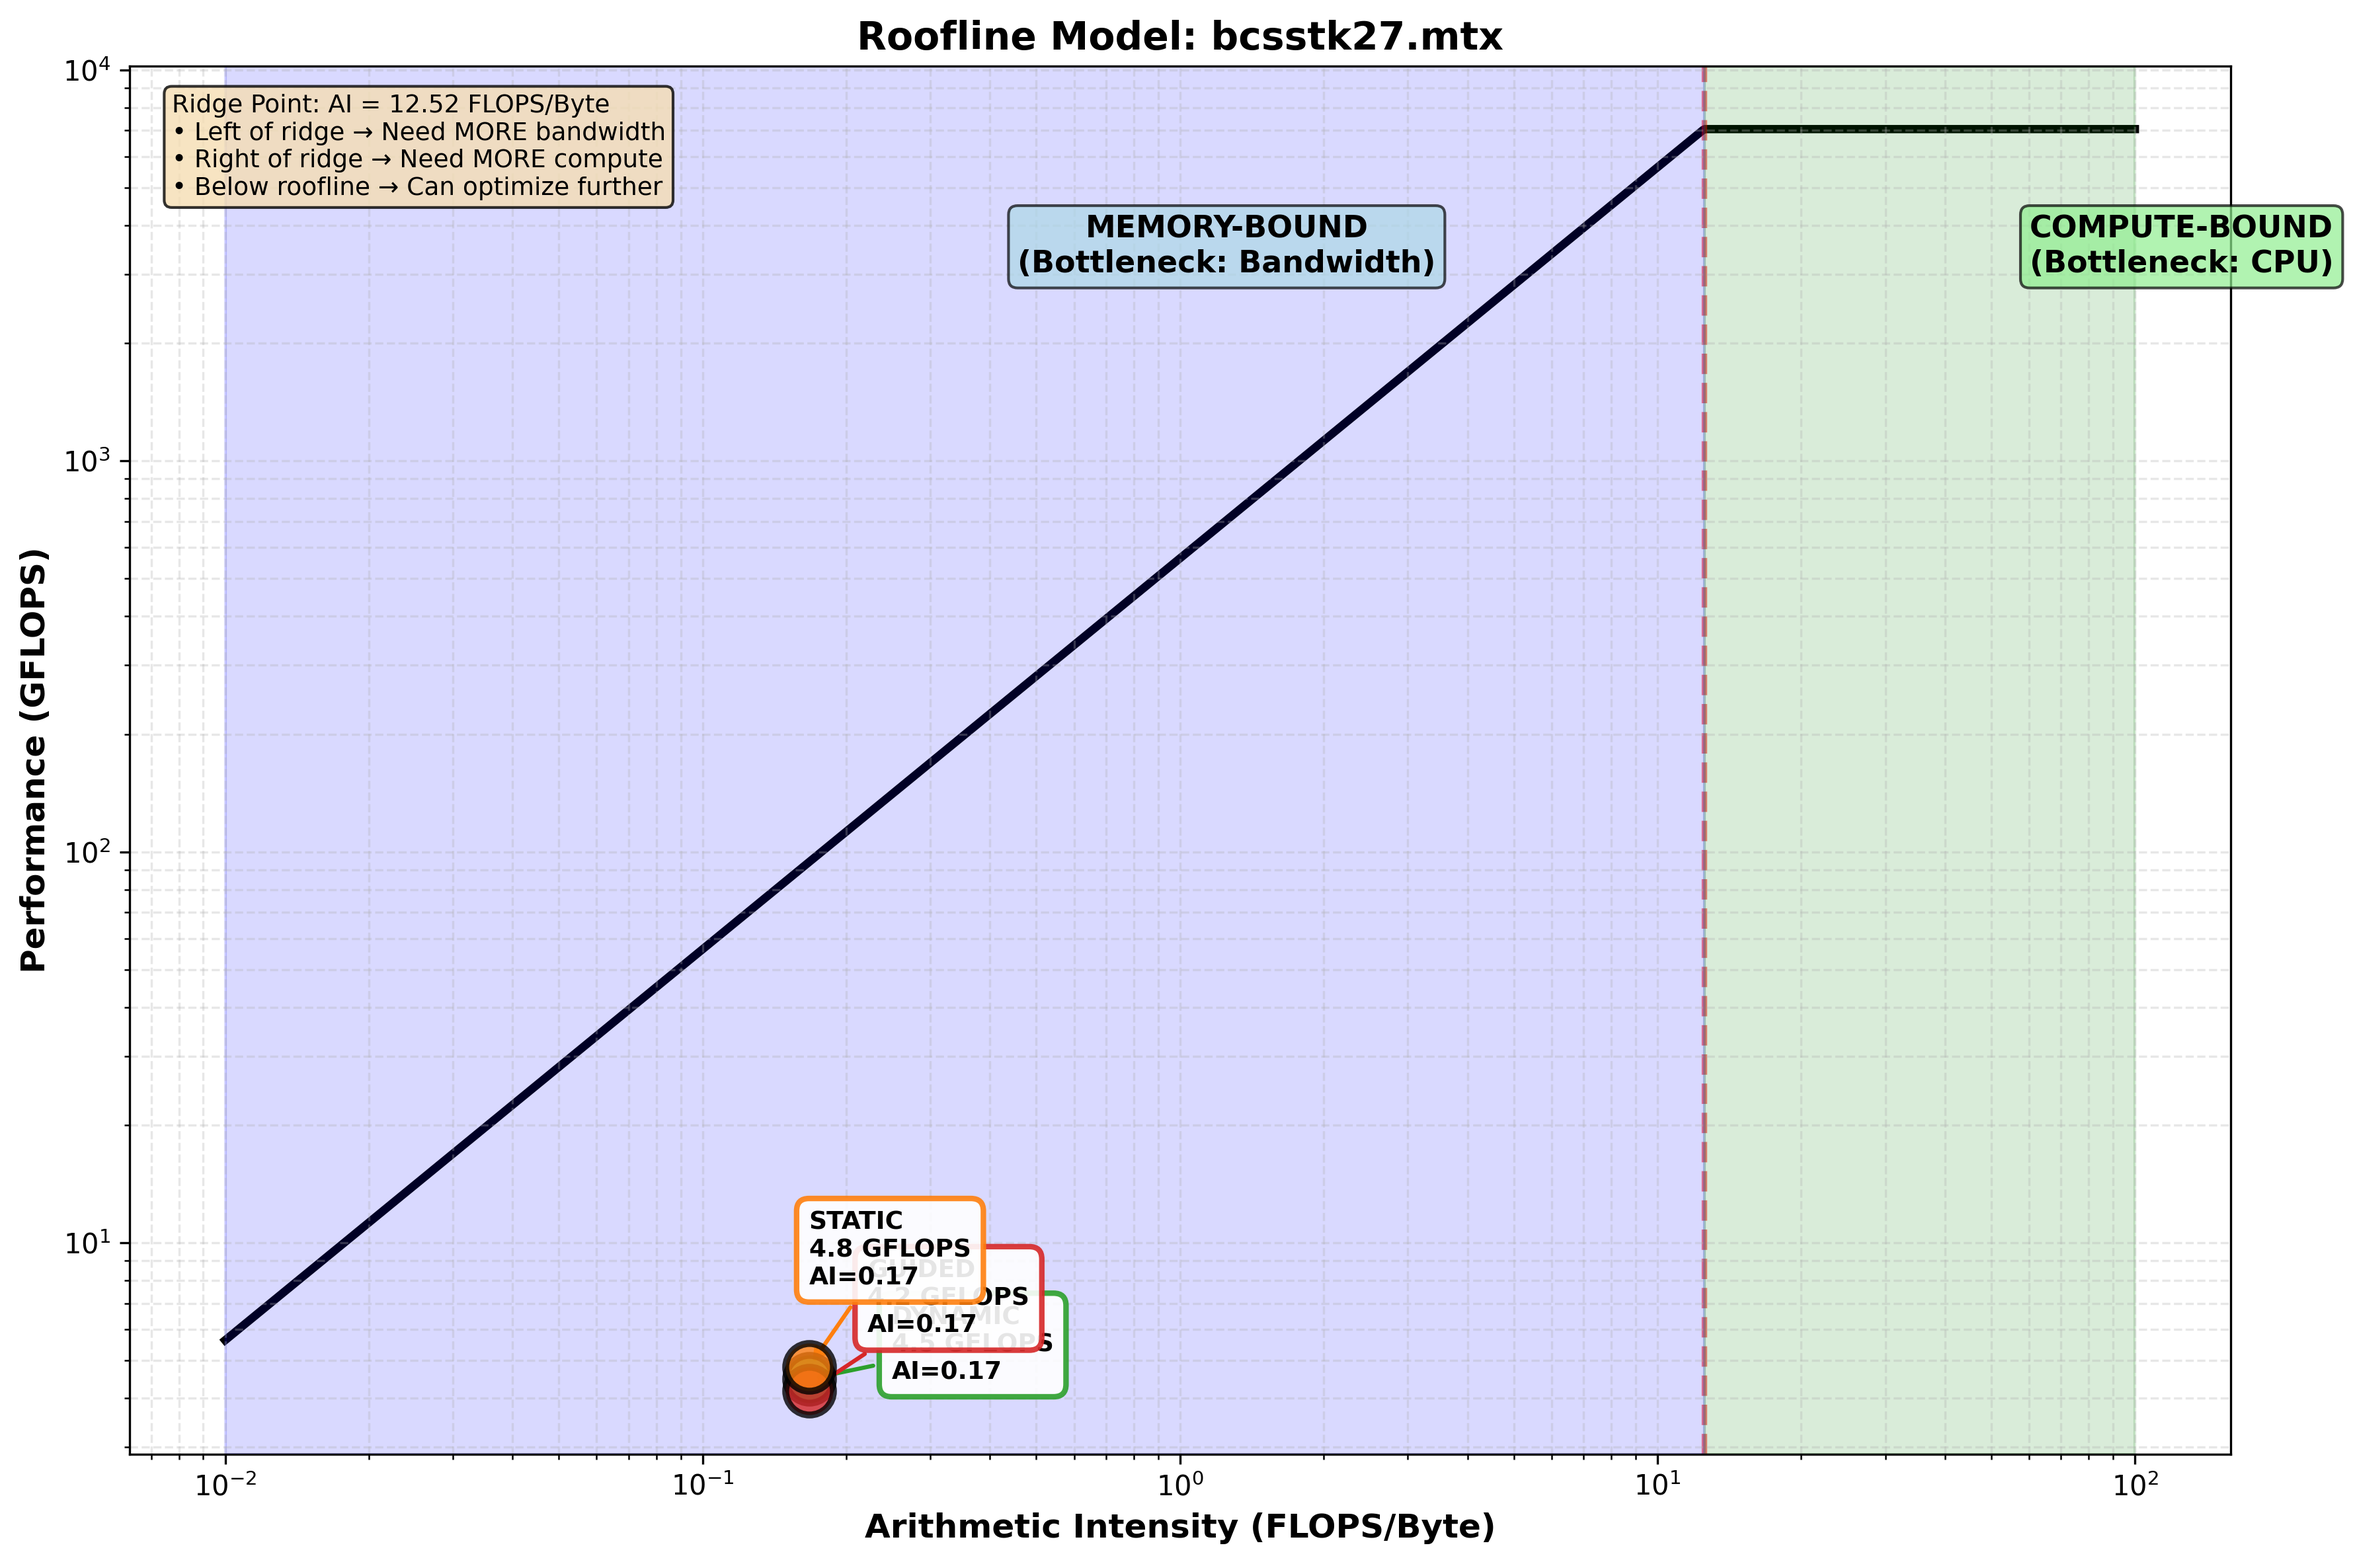
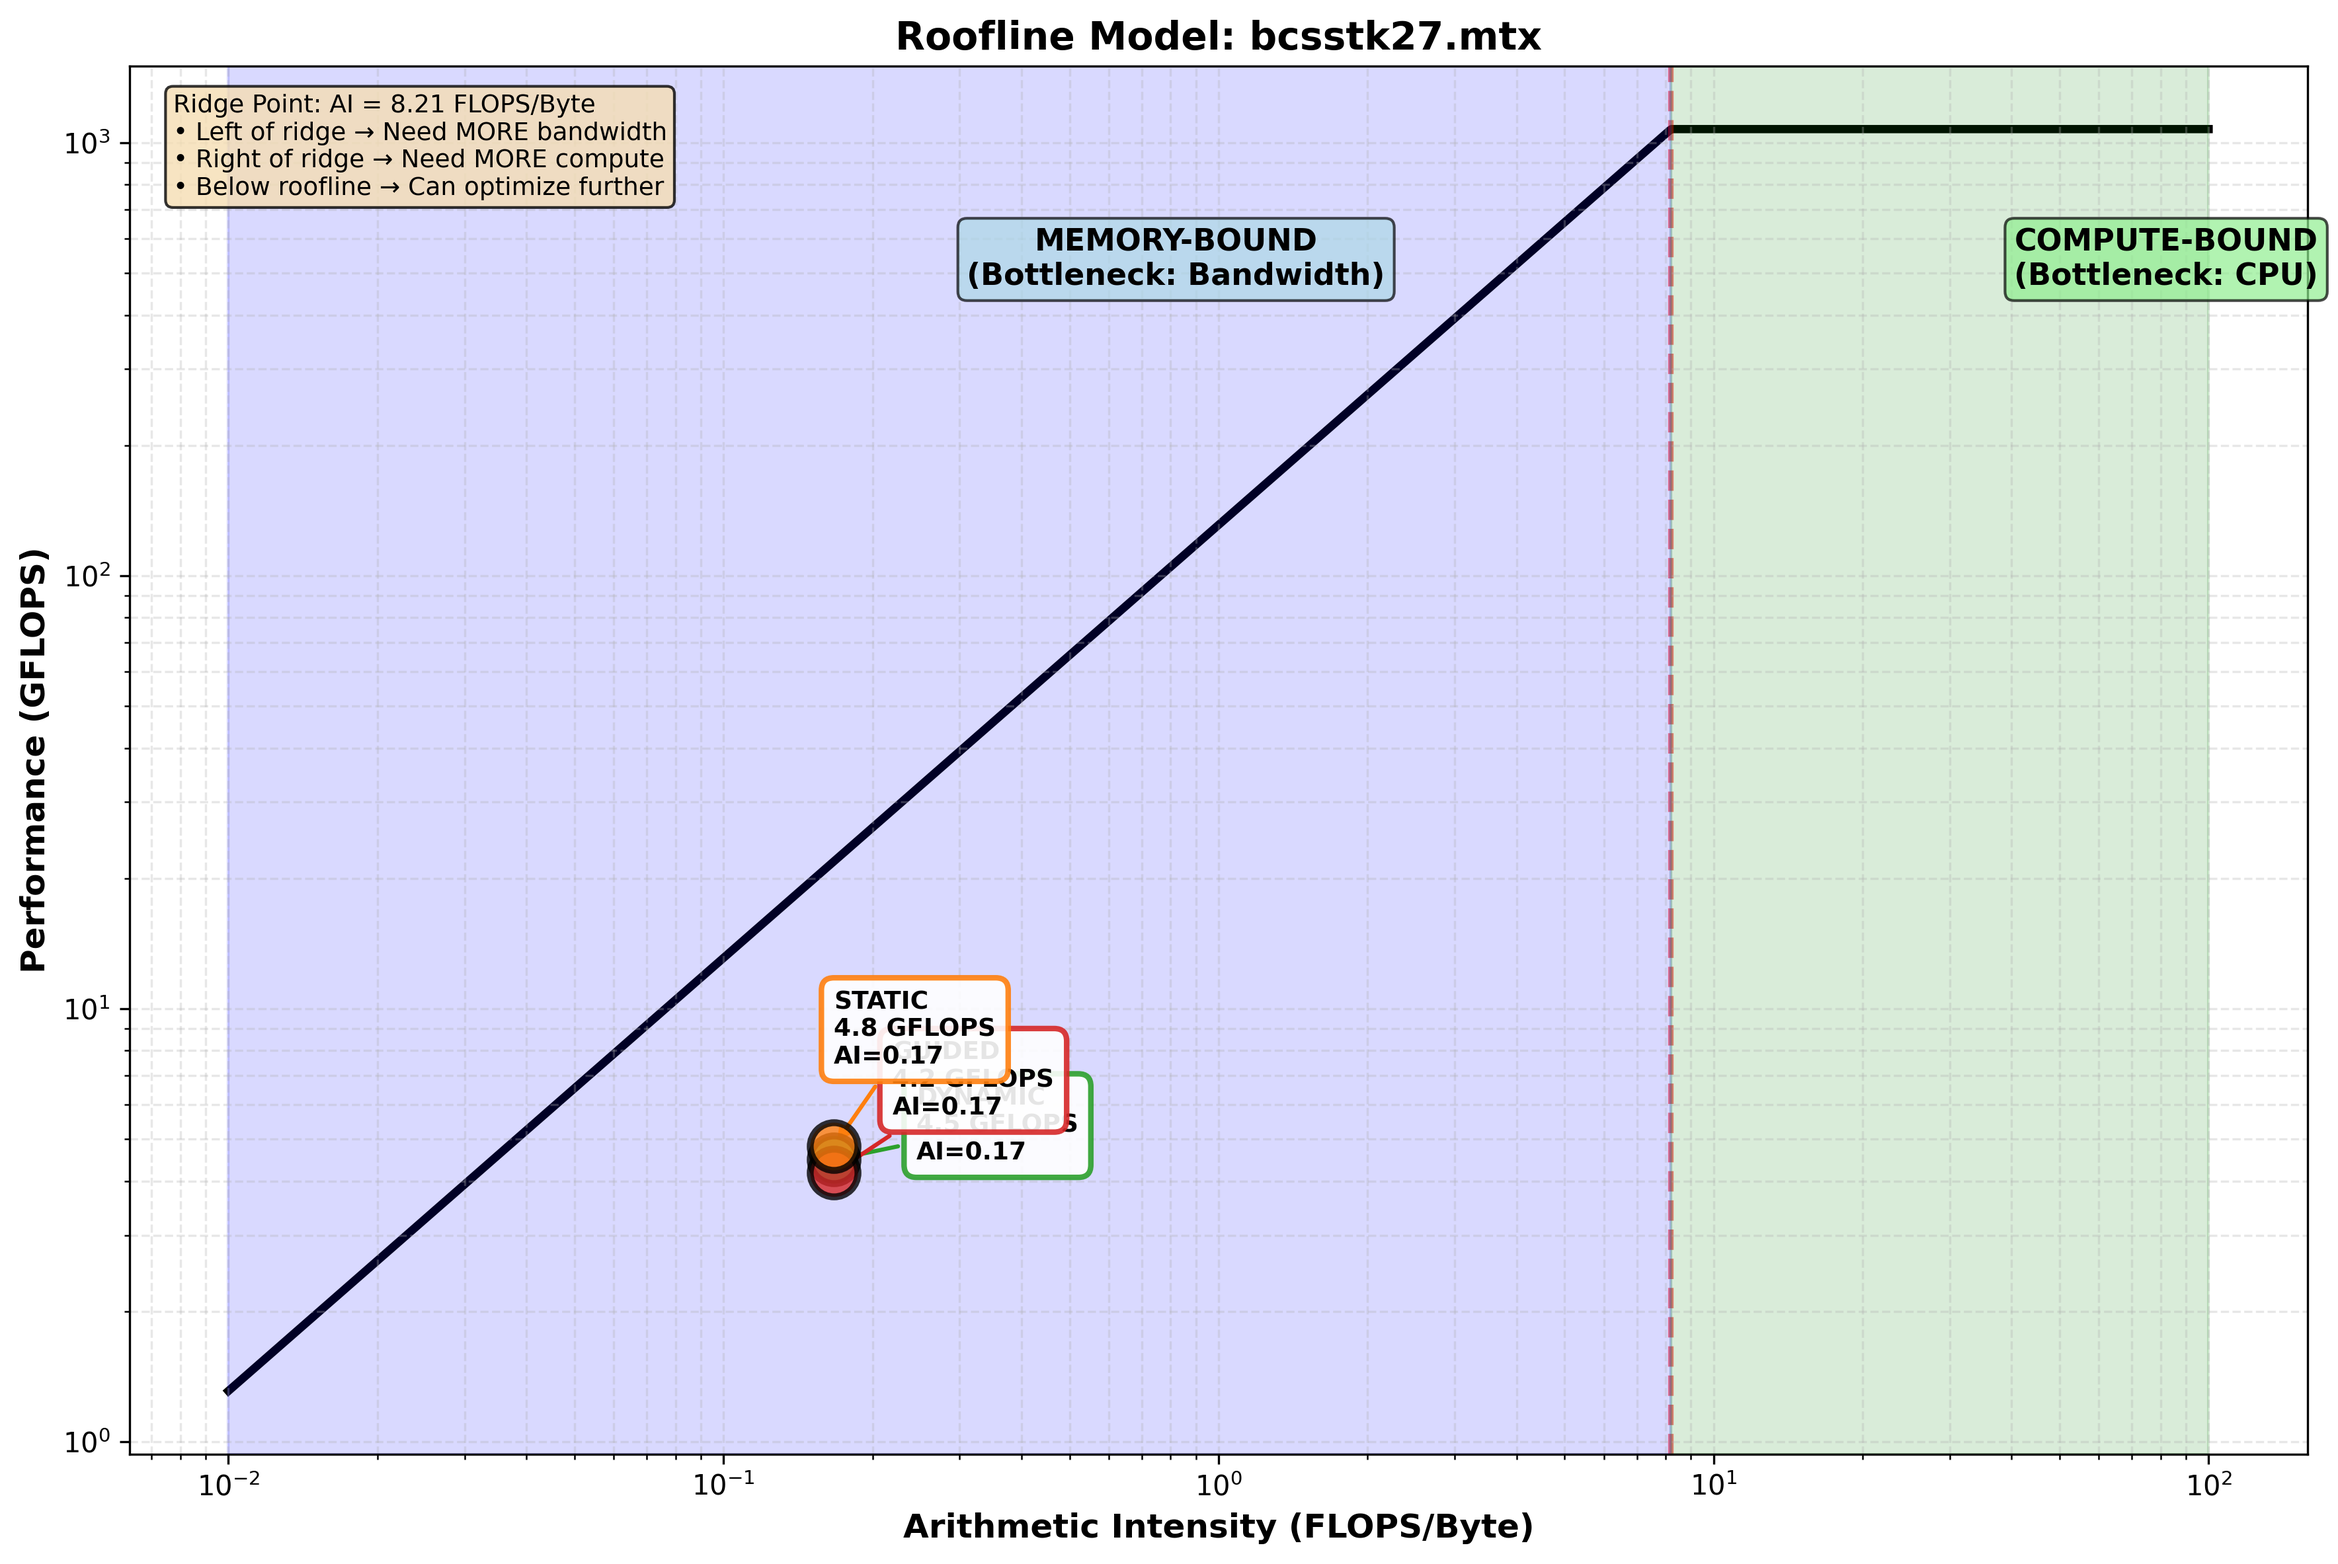
adjustments

diff --git a/scripts/plottingData.py b/scripts/plottingData.py
@@ -16,7 +16,7 @@ print("-"*50)
 print("SpMV - Data analysis and Plots")
 print("-"*50)
 
-
+# ------ DATA REDUCTION ------
 # STEP 1: 90th percentile
 
 if not os.path.exists('results/benchResults.csv'):
@@ -619,9 +619,9 @@ print("\n" + "-"*80)
 print("Generating Roofline Model plots...")
 print("-"*80)
 
-# Hardware specs
-PEAK_BANDWIDTH_GB_s = 563.2
-PEAK_GFLOPS = 7053
+# Hardware specs, official intel for Intel Xeon Gold 6252N
+PEAK_BANDWIDTH_GB_s = 131
+PEAK_GFLOPS = 1075.2 
 
 print(f"\n Hardware specs:")
 print(f"   Peak Memory Bandwidth: {PEAK_BANDWIDTH_GB_s} GB/s")
@@ -668,7 +668,7 @@ for matrix in matrices:
            fontsize=11, fontweight='bold', ha='center', va='center',
            bbox=dict(boxstyle='round', facecolor='lightgreen', alpha=0.7))
     
-    # Plot points with OFFSET labels to avoid overlap
+    # Plot points with offset labels to avoid overlap
     offset_angles = [0, 45, 90]  
     
     for idx, (_, row) in enumerate(best_per_schedule.iterrows()):
